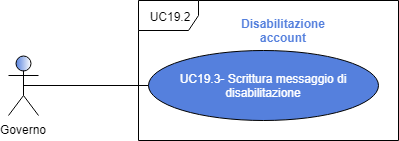
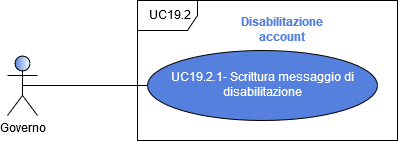
inizio revisione UC19

diff --git a/03-RQ/Esterni/Analisi_dei_requisiti/res/sections/UC/UC12-13NuovoAccount.tex b/03-RQ/Esterni/Analisi_dei_requisiti/res/sections/UC/UC12-13NuovoAccount.tex
@@ -48,7 +48,7 @@
 	\item \textbf{Postcondizione}: lo stato  dell'account utente sopra menzionato risulta "disabilitato". Durante i prossimi tentativi di autenticazione, tale utente riceverà l'errore di "account disabilitato" [UC3.3].
 \end{itemize} 
 
-\subsubsection{UC19.3 - Scrittura messaggio di disabilitazione}
+\subsubsection{UC19.2.1 - Scrittura messaggio di disabilitazione}
 \begin{itemize}
 	\item \textbf{Attori Primari}:
 	governo;
